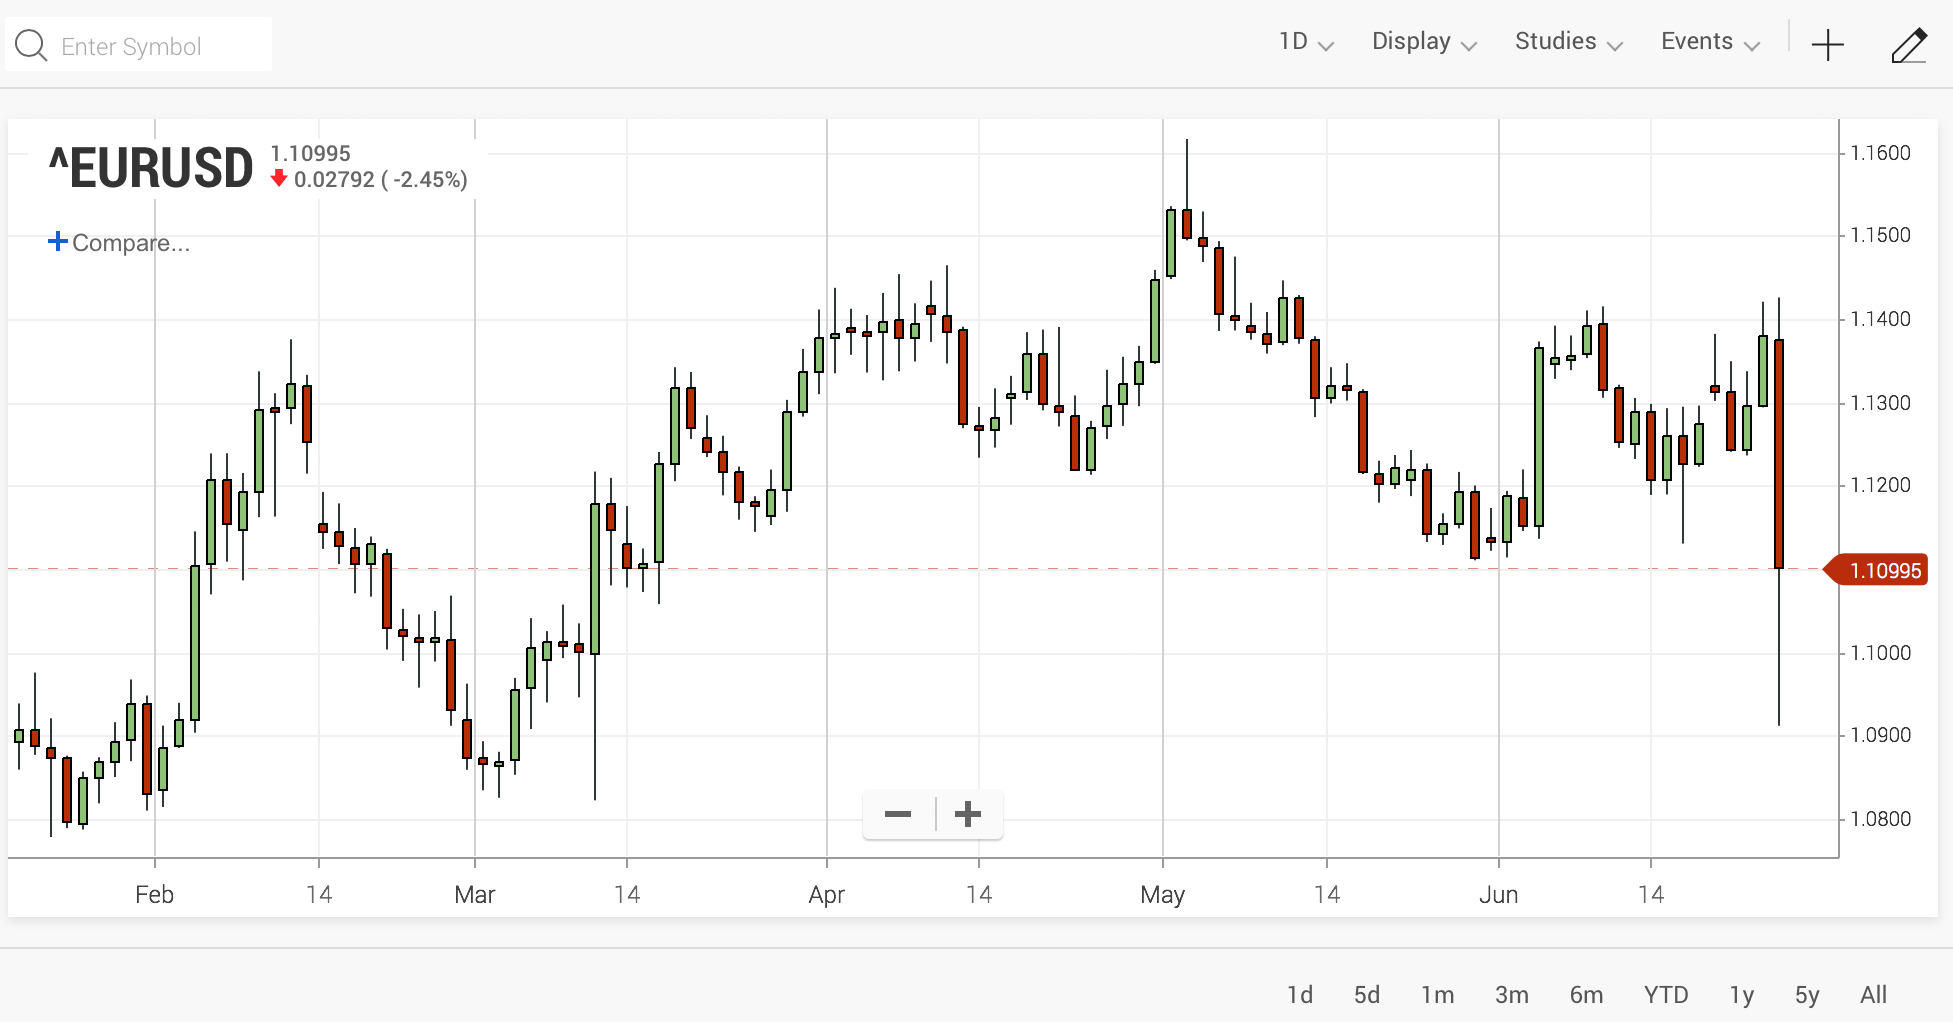
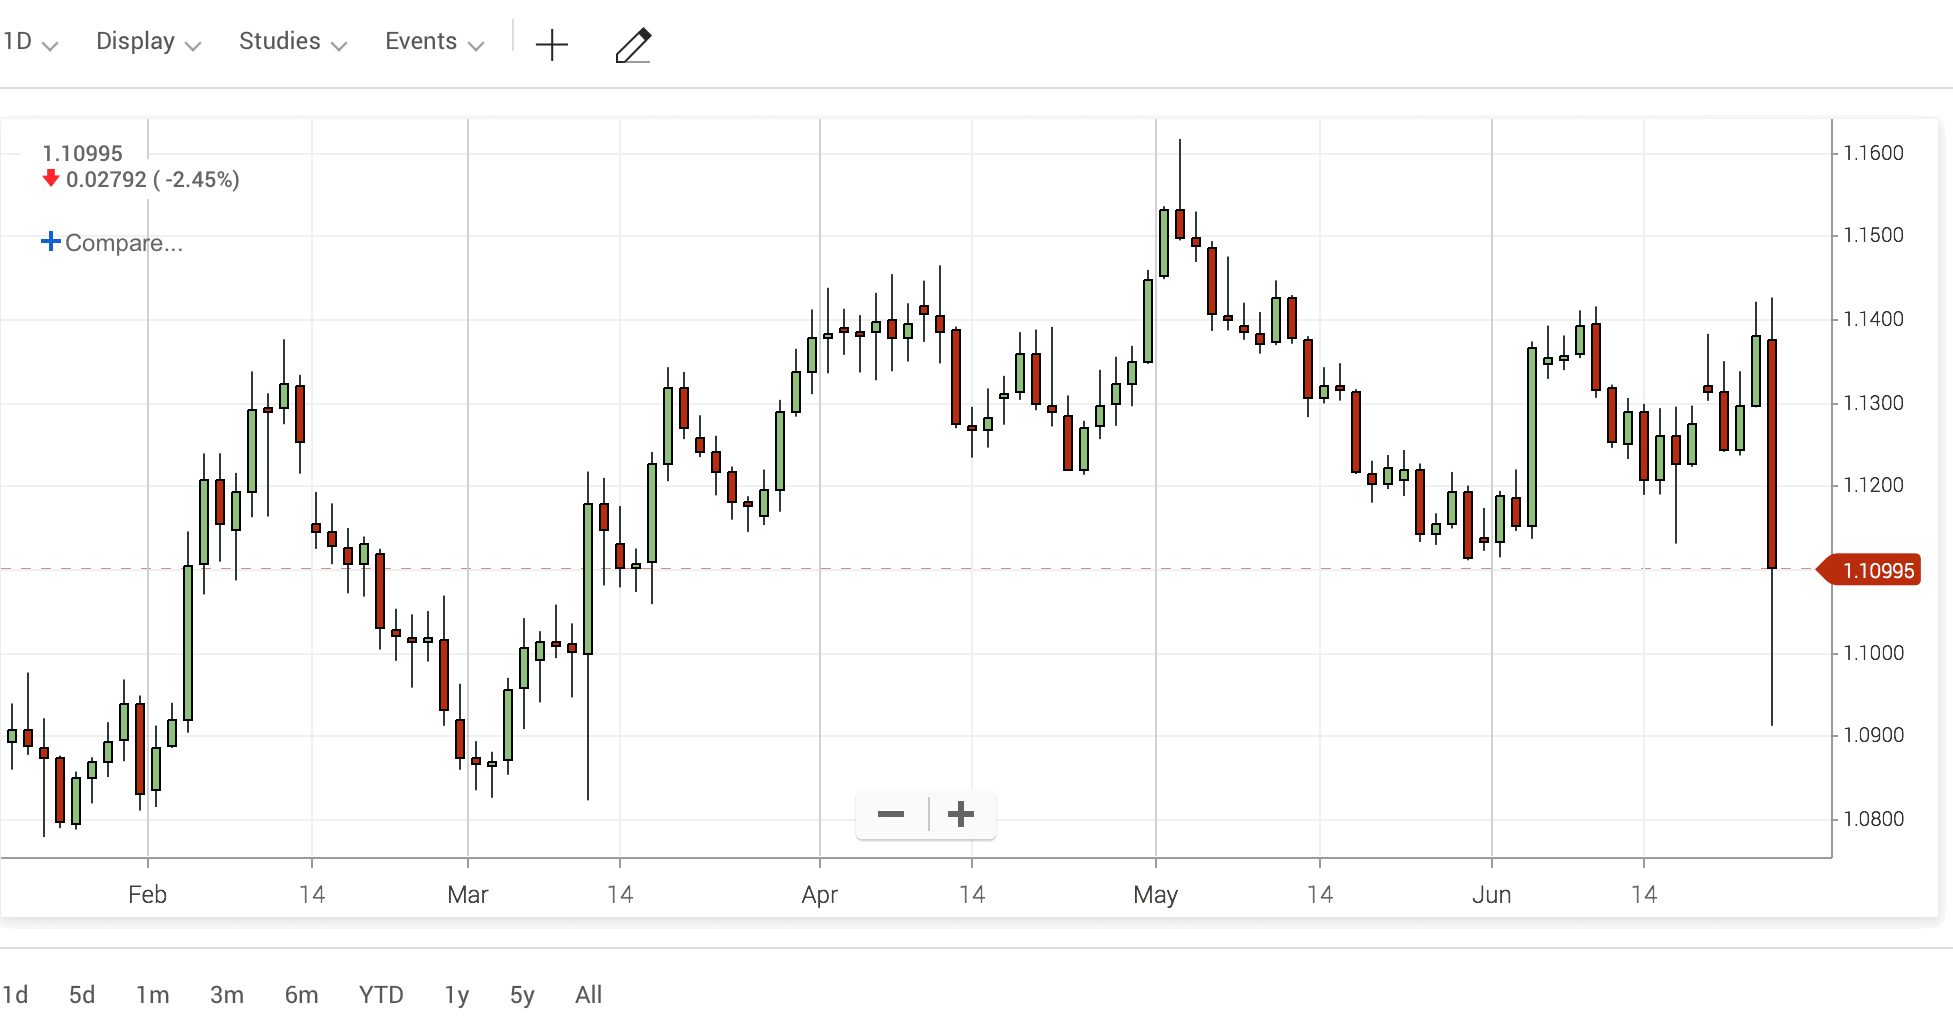
started adding chart tabs to chart pages, branhcing now

diff --git a/app/views/includes/chart-tabs.html b/app/views/includes/chart-tabs.html
@@ -1,0 +1,165 @@
+
+
+
+<!-- - - - Start the Tabbed charts - - - -->
+<!-- One tab is added for each symbol    -->
+<!-- Multiple charts can be created on   -->
+<!-- each of the tabs, eg.5min + 1 hour  -->
+<!-- - - - - - - - - - - - - - - - - - - -->
+
+<div class=" toggle" id="chart-max" style="margin-top:0px;float:left;display:visible;position:absolute;top:100px;left:640px;width:980px;">
+
+    <button class="hide" style="background:none;border:0;padding:0;margin:0;float:right;position:relative;top:-20px">
+      <svg class="icon close-icon" viewBox="0 0 14 14" style="padding-top:5px">
+        <use xlink:href="#close-x"></use>
+      </svg>
+    </button>
+
+  
+    <div class="js-tabs">
+  
+      <div class="tabs" >
+
+        <a href="#chart-panel1" id="chart-tab1" class="tab active">EUR/USD</a>
+        <a href="#chart-panel2" id="chart-tab2" class="tab">FTSE 100</a>
+        <a href="#chart-panel3" id="chart-tab3" class="tab">Germany 30</a>
+        <a href="#add" id="chart-add" class="tab">+ chart</a>
+      </div>
+
+
+
+      <div class="panels">
+        <ul id="chart-panel1" class="panel active" role="tabpanel" aria-labelledby="chart-tab1" style="">
+            
+          <div id="market-name" style="margin-top:12px">
+
+          <h2 style="float:left;font-weight:300">EUR/USD</h2>
+
+          <svg class="icon chart-icon" viewBox="0 0 14 14" style="float:right;padding-top:6px">
+            <use xlink:href="#open-chart"></use>
+          </svg>
+
+          </div>
+
+          <br clear="all">
+
+          
+
+          <!-- - - - - - MAIN SELL / BUY .... red / blue price buttons -->
+          <div id="buysell-pair" style="margin-top:4px">
+
+            <button id="sellticketbutton" class="secondary-button sell" style="margin-right:15px">
+              <p>Sell</p>
+             
+
+             <input class="price-field upward" type="number" id="sellprice" name="sellprice" autocomplete="off" size="6" value="1.3544" style="text-align:center;width:140px;margin-top:-2px">
+
+            </button>
+
+            <button id="buyticketbutton" class="secondary-button buy">
+              <p>Buy</p>
+
+
+              <input class="price-field downward" type="number" id="buyprice" name="buyprice" autocomplete="off" size="6" value="1.3544" style="text-align:center;width:140px;margin-top:-2px">
+
+            </button>
+          </div>
+
+          <img src="/public/images/big-chart1.png" width="976">
+
+        </ul>
+
+
+
+
+        <ul id="chart-panel2" class="panel" role="tabpanel" aria-labelledby="chart-tab2">
+            
+          <div id="market-name" style="margin-top:12px">
+
+          <h2 style="float:left;font-weight:300">FTSE UK 100</h2>
+
+          <svg class="icon chart-icon" viewBox="0 0 14 14" style="float:right;padding-top:6px">
+            <use xlink:href="#open-chart"></use>
+          </svg>
+
+          </div>
+
+          <br clear="all">
+
+          <!-- - - - - - MAIN SELL / BUY .... red / blue price buttons -->
+          <div id="buysell-pair" style="margin-top:4px">
+
+            <button class="secondary-button sell buysell-inactive" style="margin-right:15px">
+              <p>Sell</p>
+             
+
+             <input class="price-field upward" type="number" id="sellprice" name="sellprice" autocomplete="off" size="6" value="1.3544" style="text-align:center;width:140px;margin-top:-2px">
+
+            </button>
+
+            <button class="secondary-button buy">
+              <p>Buy</p>
+
+
+              <input class="price-field downward" type="number" id="buyprice" name="buyprice" autocomplete="off" size="6" value="1.3544" style="text-align:center;width:140px;margin-top:-2px">
+
+            </button>
+          </div>
+
+          <img src="/public/images/big-chart2.png" width="513">
+
+        </ul>
+
+
+
+
+
+        <ul id="chart-panel3" class="panel" role="tabpanel" aria-labelledby="chart-tab3">
+            
+            <div id="market-name" style="margin-top:12px">
+
+          <h2 style="float:left;font-weight:300">EUR/USD (per 0.0001) CFD</h2>
+
+          <svg class="icon chart-icon" viewBox="0 0 14 14" style="float:right;padding-top:6px">
+            <use xlink:href="#open-chart"></use>
+          </svg>
+
+          </div>
+
+          <br clear="all">
+
+          <!-- - - - - - MAIN SELL / BUY .... red / blue price buttons -->
+          <div id="buysell-pair" style="margin-top:4px">
+
+            <button class="secondary-button sell buysell-inactive" style="margin-right:15px">
+              <p>Sell</p>
+             
+
+             <input class="price-field upward" type="number" id="sellprice" name="sellprice" autocomplete="off" size="6" value="1.3544" style="text-align:center;width:140px;margin-top:-2px">
+
+            </button>
+
+            <button class="secondary-button buy">
+              <p>Buy</p>
+
+
+              <input class="price-field downward" type="number" id="buyprice" name="buyprice" autocomplete="off" size="6" value="1.3544" style="text-align:center;width:140px;margin-top:-2px">
+
+            </button>
+          </div>
+
+
+
+        </ul>
+    </div>
+  </div><!-- end JS-tabs -->
+
+
+
+
+
+</div>
+<!-- end the tabbed charts  -->
+<!-- - - - - - - - - - - -  -->
+
+  

diff --git a/app/views/chart-mix.html b/app/views/chart-mix.html
@@ -1,0 +1,61 @@
+{{<gain_template}}
+
+{{$head}}
+
+  {{>includes/gain-head}}
+
+  {{>includes/gain-svg}}
+
+
+{{/head}}
+
+
+
+{{$content}}
+
+
+  <main>
+
+  {{>includes/gain-header}}
+
+<div id="cols" style="overflow:visible">
+  <div id="leftcol" style="display:inline-block;float:left">
+
+  {{>includes/open-positions-reveals}}
+
+  {{>includes/active-orders}}
+
+  {{>includes/watchlist}}
+
+  </div>
+
+
+
+  <div style="margin-left:30px;float:left;">
+
+    {{>includes/chart-tabs}}
+
+   
+
+  </div>
+</div>
+
+  <!-- use these to change the values of the ticket -->
+    <input type="hidden" id="price" name="price" value="1.13703">
+    <input type="hidden" id="spread" name="spread" value="1.2">
+    <input type="hidden" id="margin" name="margin" value="200">
+  <!-- - - - - - - - - - - - - - - - - - - - - - - -->
+
+
+
+
+
+  </main>
+
+{{/content}}
+
+{{$bodyEnd}}
+  {{>includes/gain-scripts}}
+{{/bodyEnd}}
+
+{{/gain_template}}

diff --git a/app/assets/sass/concept1.scss b/app/assets/sass/concept1.scss
@@ -1381,16 +1381,16 @@ ul.header-nav li a:hover {
     box-shadow: 0 0 3px 3px rgba(0,127,255,.5);
 }
 .js-tabs .tab:hover {
-    background-color: #fff;
+    //background-color: #fff;
 }
 .js-tabs .tab.active {
-    border-bottom: .3em solid #fff;
+    border-bottom: .2em solid #333;
     cursor: default;
     color: black;
 }
 
 .js-tabs .panels {
-    background-color: #fff;
+    //background-color: #fff;
 }
 
 .js-tabs .panel {
@@ -1399,6 +1399,13 @@ ul.header-nav li a:hover {
 .js-tabs .panel.active {
     display: block;
 }
+.js-tabs .tab.actives {
+    border-bottom: .2em solid #333;
+    cursor: default;
+    color: black;
+}
+
+
 
 
 
